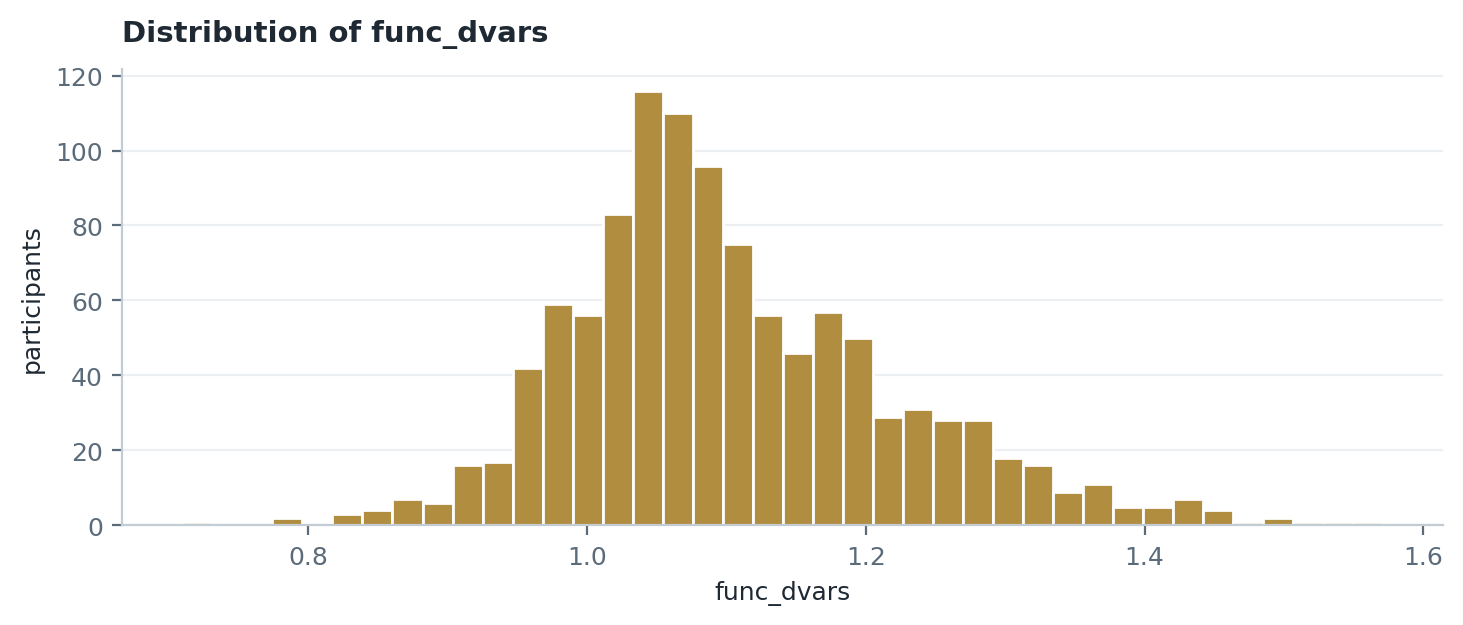
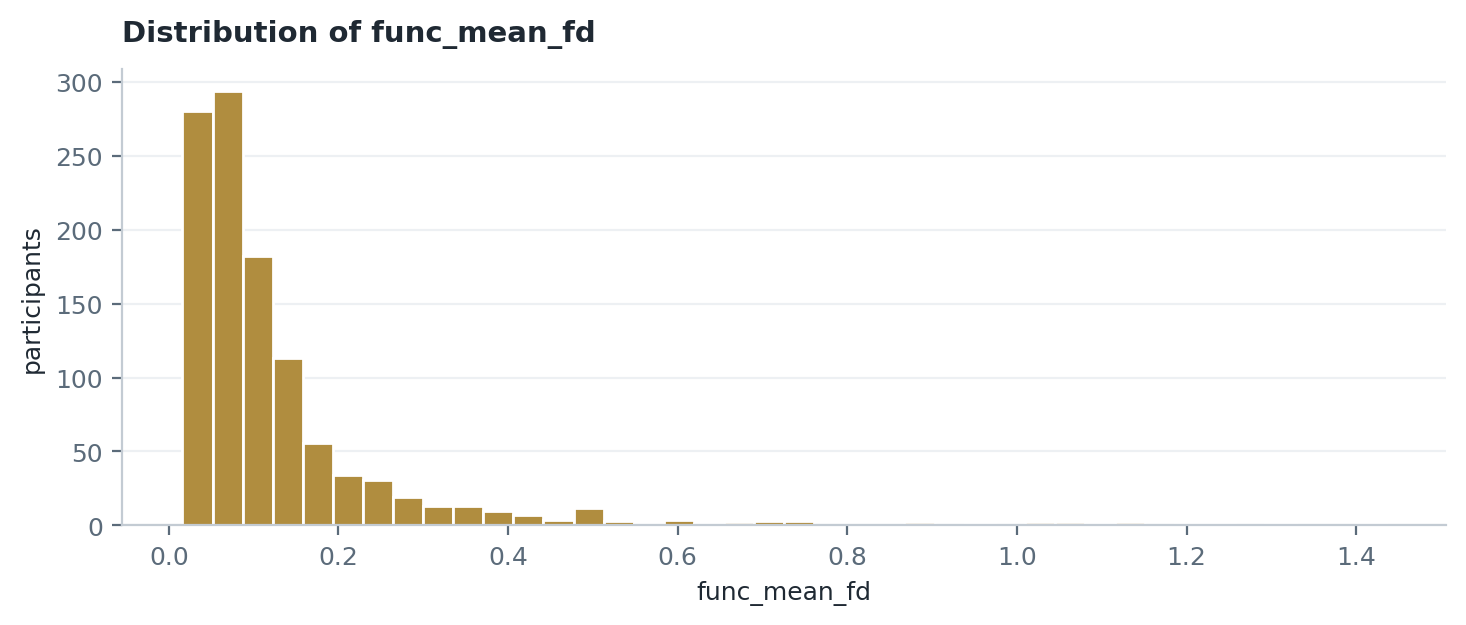
Fix: metadata report plots func_mean_fd, the QC motion variable, not func_dvars
Claude-Session: https://claude.ai/code/session_01DWN4g6Lxy7RBDQH5NTkEmb

diff --git a/scripts/02_metadata_report.py b/scripts/02_metadata_report.py
@@ -59,7 +59,7 @@ def _bar(series, title, xlabel, path: Path, horizontal=False, color=STROKE):
     plt.close(fig)
 
 
-def build(csv_path: Path, out_md: Path, fig_dir: Path) -> str:
+def build(csv_path: Path, out_md: Path, fig_dir: Path, motion_column: str | None = None) -> str:
     df = md.load_phenotypic(csv_path)
     today = dt.date.today().isoformat()
     figures = []
@@ -92,9 +92,8 @@ def build(csv_path: Path, out_md: Path, fig_dir: Path) -> str:
         plt.close(fig)
         figures.append(("Age distribution", "figures/age_hist.png"))
 
-    motion_cols = md.find_motion_columns(df)
-    if motion_cols:
-        col = motion_cols[0]
+    col = md.pick_motion_column(df, motion_column)
+    if col:
         fig, ax = plt.subplots(figsize=(7.4, 3.2))
         ax.hist(df[col].dropna(), bins=40, color=ACCENT, edgecolor="#FFFFFF")
         ax.set_xlabel(col)
@@ -196,7 +195,8 @@ def main() -> int:
         return 1
 
     reports = resolve(cfg["paths"]["reports"])
-    build(csv_path, reports / "metadata_report.md", reports / "figures")
+    motion_column = load("qc_criteria.yaml").get("motion", {}).get("column")
+    build(csv_path, reports / "metadata_report.md", reports / "figures", motion_column)
     print(f"Wrote {reports / 'metadata_report.md'}")
     print(f"Figures in {reports / 'figures'}")
     return 0

diff --git a/src/neurographx/m1_ingestion/metadata.py b/src/neurographx/m1_ingestion/metadata.py
@@ -50,6 +50,18 @@ def find_motion_columns(df: pd.DataFrame) -> list[str]:
     return out
 
 
+def pick_motion_column(df: pd.DataFrame, preferred: str | None = None) -> str | None:
+    """The motion column to plot: the one the QC gate uses if present, else the first found.
+
+    Without a preference the first match in file order is func_dvars, which is not the
+    variable the motion gate thresholds. Passing the configured column avoids that.
+    """
+    found = find_motion_columns(df)
+    if preferred and preferred in found:
+        return preferred
+    return found[0] if found else None
+
+
 def _counts(df: pd.DataFrame, column: str, labels: dict | None = None) -> pd.DataFrame | None:
     if column not in df.columns:
         return None

diff --git a/tests/test_metadata.py b/tests/test_metadata.py
@@ -44,3 +44,12 @@ def test_missing_columns_do_not_crash():
     assert md.site_by_group(df) is None
     assert md.qc_summary(df) is None
     assert md.would_pass_all_raters(df) == {"applicable": False}
+
+
+def test_motion_column_prefers_the_qc_variable(synthetic_phenotypic):
+    df = md.load_phenotypic(synthetic_phenotypic)
+    df.insert(0, "func_dvars", 1.0)          # first in file order, like the real file
+    assert md.pick_motion_column(df) == "func_dvars"
+    assert md.pick_motion_column(df, "func_mean_fd") == "func_mean_fd"
+    assert md.pick_motion_column(df, "not_a_column") == "func_dvars"
+    assert md.pick_motion_column(pd.DataFrame({"SUB_ID": [1]})) is None

diff --git a/docs/reports/metadata_report.md b/docs/reports/metadata_report.md
@@ -1,6 +1,6 @@
 # ABIDE Preprocessed: Metadata Report
 
-**Generated:** 2026-10-02  
+**Generated:** 2026-10-10  
 **Source file:** `Phenotypic_V1_0b_preprocessed1.csv`  
 **Rows:** 1112  **Columns:** 106
 
@@ -88,17 +88,17 @@ This table drives the stratification of the frozen evaluation set.
 Accepted values follow `nilearn.datasets.fetch_abide_pcp(quality_checked=True)`,
 version 0.14.1.
 
-| column                | distinct values                                                                                                                          | most common   |   count of most common | accepted values           |   passing |
-|:----------------------|:-----------------------------------------------------------------------------------------------------------------------------------------|:--------------|-----------------------:|:--------------------------|----------:|
-| qc_rater_1            | OK, fail, maybe                                                                                                                          | OK            |                    997 | OK                        |       997 |
+| column                | distinct values                                                                                                                          | most common   |   count of most common | accepted values           | passing   |
+|:----------------------|:-----------------------------------------------------------------------------------------------------------------------------------------|:--------------|-----------------------:|:--------------------------|:----------|
+| qc_rater_1            | OK, fail, maybe                                                                                                                          | OK            |                    997 | OK                        | 997       |
 | qc_notes_rater_1      | <NA>, dorsal cropped, **Not recommended with niak, ventral edge is cropped, cerebellum & brainstem cropped, misshapen right frontal lobe | <NA>          |                   1073 | not in the nilearn filter |           |
-| qc_anat_rater_2       | OK, maybe, fail, <NA>                                                                                                                    | OK            |                    866 | OK, maybe                 |      1060 |
+| qc_anat_rater_2       | OK, maybe, fail, <NA>                                                                                                                    | OK            |                    866 | OK, maybe                 | 1060      |
 | qc_anat_notes_rater_2 | <NA>, skull-striping fail, skull-striping fail;, skull-striping fail; Motion, stripe, Motion                                             | <NA>          |                    837 | not in the nilearn filter |           |
-| qc_func_rater_2       | OK, maybe, fail, <NA>                                                                                                                    | OK            |                    842 | OK, maybe                 |      1049 |
+| qc_func_rater_2       | OK, maybe, fail, <NA>                                                                                                                    | OK            |                    842 | OK, maybe                 | 1049      |
 | qc_func_notes_rater_2 | <NA>, ic-cerebellum, Ic-parietal, ic-cerebellum_temporal_lobe, ic-cerebellum-temporal_lobe, ic-parietal-cerebellum                       | <NA>          |                    853 | not in the nilearn filter |           |
-| qc_anat_rater_3       | OK, fail, <NA>                                                                                                                           | OK            |                   1003 | OK                        |      1003 |
+| qc_anat_rater_3       | OK, fail, <NA>                                                                                                                           | OK            |                   1003 | OK                        | 1003      |
 | qc_anat_notes_rater_3 | <NA>, headmotion, noise, half head, no T1, T2, less headmotion                                                                           | <NA>          |                   1004 | not in the nilearn filter |           |
-| qc_func_rater_3       | OK, fail, <NA>                                                                                                                           | OK            |                   1035 | OK                        |      1035 |
+| qc_func_rater_3       | OK, fail, <NA>                                                                                                                           | OK            |                   1035 | OK                        | 1035      |
 | qc_func_notes_rater_3 | <NA>, no func images, no T1, ERROR #5, ERROR #46, bad quality                                                                            | <NA>          |                   1036 | not in the nilearn filter |           |
 
 Applying the standard rater filter to the 5 rater columns present would retain **871 of 1112** participants.
@@ -240,6 +240,6 @@ before setting a threshold.
 
 ![Age distribution](figures/age_hist.png)
 
-**Distribution of func_dvars**
+**Distribution of func_mean_fd**
 
-![Distribution of func_dvars](figures/motion_hist.png)
+![Distribution of func_mean_fd](figures/motion_hist.png)

diff --git a/SETUP.md b/SETUP.md
@@ -93,7 +93,8 @@ pip install -e .
 pytest
 ```
 
-Ten tests should pass.
+Every test should pass (94 as of Week 2). If one fails, read its message before
+changing anything: several tests guard the frozen evaluation set on purpose.
 
 ## 9. Run the Week 1 scripts
 
